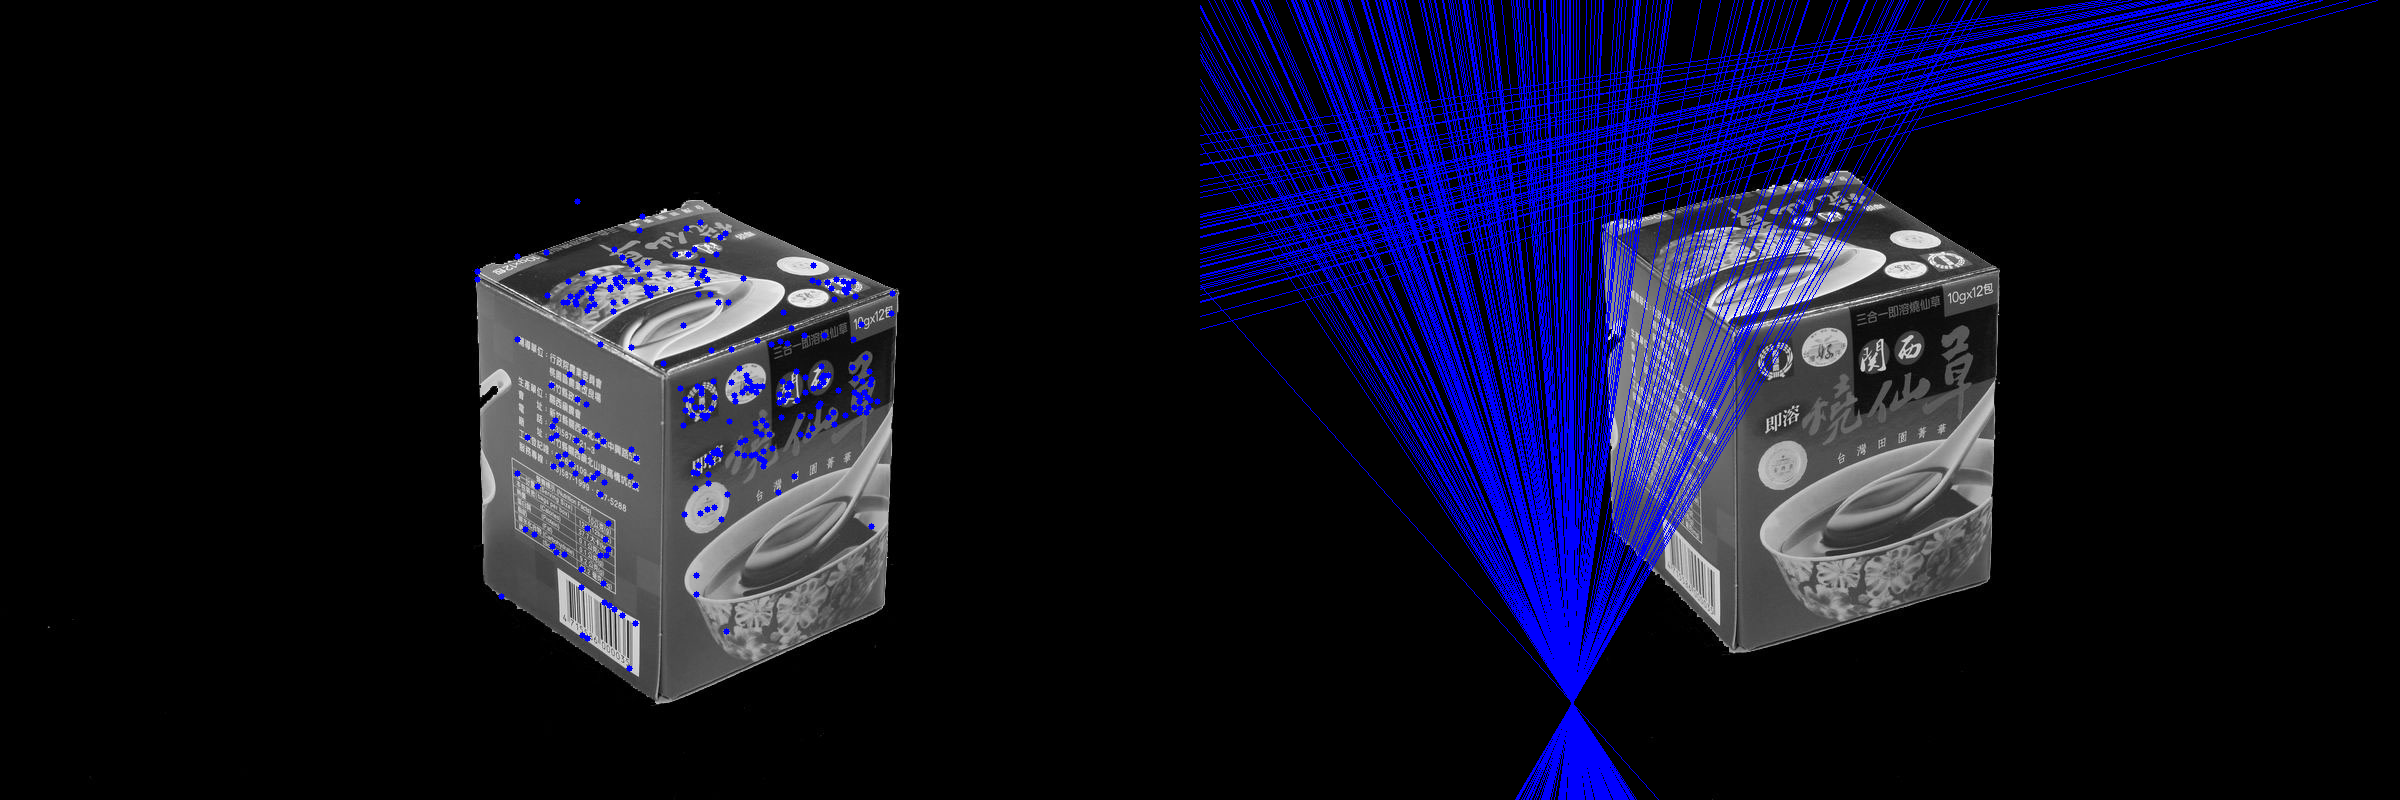
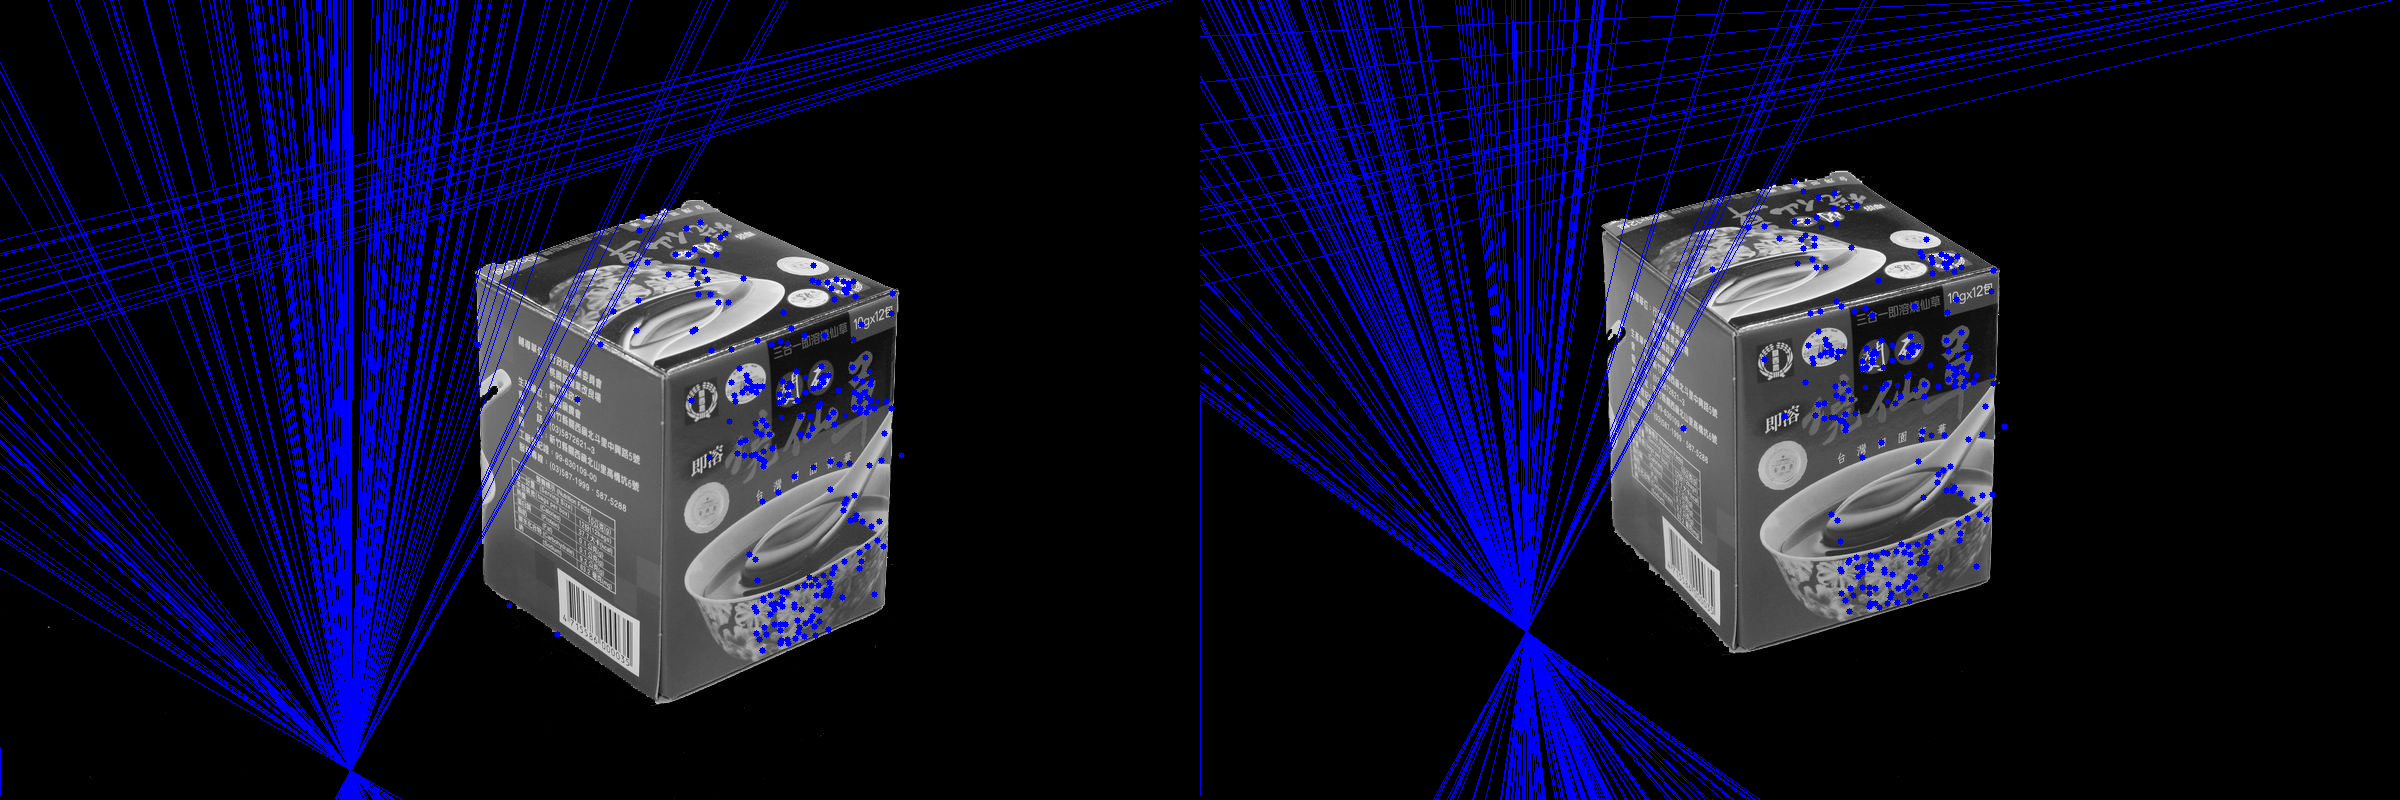
add opencv function call

diff --git a/structure-from-motion/task_1.py b/structure-from-motion/task_1.py
@@ -44,7 +44,7 @@ def find_matches(img1, img2):
             good.append(m)
             x.append(kp1[m.queryIdx].pt)
             xp.append(kp2[m.trainIdx].pt)
-
+    
     x = np.asarray(x)
     xp = np.asarray(xp)
     return x, xp
@@ -63,6 +63,7 @@ def normalize_2d_pts(pts):
     if pts.shape[0] != 3:
         raise ShapeError('Input point array must be 3xN')
 
+    # precondition
     finiteind = abs(pts[2]) > np.finfo(float).eps
     pts[0, finiteind] = pts[0, finiteind]/pts[2, finiteind]
     pts[1, finiteind] = pts[1, finiteind]/pts[2, finiteind]
@@ -80,9 +81,9 @@ def normalize_2d_pts(pts):
     scale = np.sqrt(2) / mean_dist
 
     '''
-        T = [scale   0   -scale*c(1)
-            0     scale -scale*c(2)
-            0       0      1      ];
+    T = [scale      0  -scale*c(1)
+             0  scale  -scale*c(2)
+             0      0            1]
     '''
     T = np.eye(3)
     T[0][0] = scale
@@ -118,7 +119,7 @@ def eight_point_algorithm(x1, x2):
     x2, T2 = normalize_2d_pts(x2)
 
     A = constraint_matrix(x1, x2)
-
+    
     # 1. Af=0 implies that the fundamental mat F can be extracted from singular vector of V
     # corresponding to the smallest singular value
     U, S, V = np.linalg.svd(A)
@@ -127,11 +128,11 @@ def eight_point_algorithm(x1, x2):
     # 2. Resolve det(F) = 0 constraint using SVD. Fundamental matrix should be rank 2
     U, D, V = np.linalg.svd(F)
     D[2] = 0
-    F = np.dot(U, np.dot(np.diag(D), V.T))
+    F = np.dot(np.dot(U, np.diag(D)), V.T)
 
-    # 3. denormalize F = T2.T * F_hat * T1
+    # 3. denormalize F = T2.T * F(normalized) * T1
     F = np.dot(np.dot(T2.T, F), T1)
-    return F
+    return F/F[2,2]
 
 def random_partition(n,n_data):
     """ return n random rows of data (and also the other len(data)-n rows)
@@ -330,45 +331,93 @@ h_x = h_x.T
 h_xp = h_xp.T
 
 # step 2: estimate fundamental matrix with RANSAC
-F, inliers = RANSAC(h_x, h_xp, n=8, iters=1000, thres=500, d=30)
+F, inliers = RANSAC(h_x, h_xp, n=8, iters=1000, thres=300, d=300)
 inliers_x = h_x[:, inliers]
 inliers_xp = h_xp[:, inliers]
+# F = eight_point_algorithm(inliers_x, inliers_xp)
+print(len(inliers)/h_x.shape[1])
 print(len(inliers))
+print(F)
 
 # step 3: draw the interest points and the corresponding epipolar lines
-h, w = img1.shape
 # F * xp is the epipolar line associated with x (l = F * xp)
 # l = prepare_epilines(F, inliers_xp, h, w)
 # F.T * x is the epipolar line associated with xp (lp = F.T * x)
 # lp = prepare_epilines(F.T, inliers_x, h, w)
 
 ###### try this
-# l = F.T xp
-l = prepare_epilines(F.T, inliers_xp, h, w)
-# l' = Fx
-lp = prepare_epilines(F, inliers_x, h, w)
-print(len(l), len(lp))
+# l = F.T * xp
 
+h, w = img1.shape
+lines_on_img1 = np.dot(F.T, inliers_xp).T
+print(lines_on_img1)
+# l' = F * x
+lines_on_img2 = np.dot(F, inliers_x).T
 
-# draw interest points and their corresponding epipolar lines
 img1_vis = cv2.cvtColor(img1, cv2.COLOR_GRAY2BGR)
 img2_vis = cv2.cvtColor(img2, cv2.COLOR_GRAY2BGR)
 
-# kp on img1, epi lines on img2
-kp_to_draw = []
-for i in range(inliers_x.shape[1]):
-    kp_to_draw.append((int(inliers_x[0, i]), int(inliers_x[1, i])))
-
-for i in range(len(kp_to_draw)):
-    img1_vis = cv2.circle(img1_vis, kp_to_draw[i], radius=3, color=(255,0,0), thickness=-1)
-
-for i in range(len(l)):
-    img2_vis = cv2.line(img2_vis, l[i][0], l[i][1], (255, 0, 0), 1)
+for r, pt_x, pt_xp in zip(lines_on_img1, inliers_x.T, inliers_xp.T):
+    color = tuple(np.random.randint(0, 255, 3).tolist())
+    x0, y0 = map(int, [0, -r[2]/r[1]])
+    x1, y1 = map(int, [w, -(r[2]+r[0]*w)/r[1]])
+    img1_vis = cv2.line(img1_vis, (y0,x0), (y1,x1), color, 1)
+    img1_vis = cv2.circle(img1_vis, tuple((int(pt_x[0]), int(pt_x[1]))), 3, color, -1)
+    img2_vis = cv2.circle(img2_vis, tuple((int(pt_xp[0]), int(pt_xp[1]))), 3, color, -1)
 
 vis = np.concatenate((img1_vis, img2_vis), axis=1)
+cv2.imshow('image', vis)
+cv2.waitKey(0)
+cv2.destroyAllWindows()
 
+img1_vis = cv2.cvtColor(img1, cv2.COLOR_GRAY2BGR)
+img2_vis = cv2.cvtColor(img2, cv2.COLOR_GRAY2BGR)
+
+for r, pt_x, pt_xp in zip(lines_on_img2, inliers_x.T, inliers_xp.T):
+    color = tuple(np.random.randint(0, 255, 3).tolist())
+    x0, y0 = map(int, [0, -r[2]/r[1]])
+    x1, y1 = map(int, [w, -(r[2]+r[0]*w)/r[1]])
+    img2_vis = cv2.line(img2_vis, (x0,y0), (x1,y1), color, 1)
+    img1_vis = cv2.circle(img1_vis, tuple((int(pt_x[0]), int(pt_x[1]))), 3, color, -1)
+    img2_vis = cv2.circle(img2_vis, tuple((int(pt_xp[0]), int(pt_xp[1]))), 3, color, -1)
+
+vis = np.concatenate((img1_vis, img2_vis), axis=1)
+cv2.imshow('image', vis)
+cv2.waitKey(0)
+cv2.destroyAllWindows()
+
+
+
+# l = prepare_epilines(F.T, inliers_xp, h, w)
+
+# l' = Fx
+# lp = prepare_epilines(F, inliers_x, h, w)
+# print(len(l), len(lp))
+
+
+# draw interest points and their corresponding epipolar lines
+# img1_vis = cv2.cvtColor(img1, cv2.COLOR_GRAY2BGR)
+# img2_vis = cv2.cvtColor(img2, cv2.COLOR_GRAY2BGR)
+# # kp on img1, epi lines on img2
+# kp_to_draw_x = []
+# kp_to_draw_xp = []
+
+# draw key points
+# for i in range(inliers_x.shape[1]):
+#     kp_to_draw_x.append((int(inliers_x[0, i]), int(inliers_x[1, i])))
+#     kp_to_draw_xp.append((int(inliers_xp[0,i]), int(inliers_xp[1,i])))
+
+# for i in range(len(kp_to_draw_x)):
+#     img1_vis = cv2.circle(img1_vis, kp_to_draw_x[i], radius=3, color=(255,0,0), thickness=-1)
+#     img2_vis = cv2.circle(img2_vis, kp_to_draw_xp[i], radius=3, color=(255,0,0),thickness=-1)
+
+# for i in range(len(l)):
+#      img1_vis = cv2.line(img1_vis, l[i][0], l[i][1], (255, 0, 0), 1)
+#      img2_vis = cv2.line(img2_vis, lp[i][0], lp[i][1], (255, 0, 0), 1)
+
+# vis = np.concatenate((img1_vis, img2_vis), axis=1)
 # cv2.imshow('image', vis)
-cv2.imwrite('./out_imgs/kp_and_epipolar.png', vis)
+# cv2.imwrite('./out_imgs/kp_and_epipolar.png', vis)
 # cv2.waitKey(0)
 # cv2.destroyAllWindows()
 
@@ -392,6 +441,7 @@ def drawlines(img1,img2,lines,pts1,pts2):
 
 # step 4: get 4 possible solutions of essential matrix from fundamental matrix
 # the given intrinsic parameters provided in hw3
+
 K = np.array([[1.4219, 0.0005, 0.5092],
               [0, 1.4219, 0.3802],
               [0, 0, 0.0010]], dtype=float)
@@ -405,7 +455,7 @@ all_3dpoints_1 = triangulation(P2_1, inliers_x, inliers_xp)
 all_3dpoints_2 = triangulation(P2_2, inliers_x, inliers_xp)
 all_3dpoints_3 = triangulation(P2_3, inliers_x, inliers_xp)
 all_3dpoints_4 = triangulation(P2_4, inliers_x, inliers_xp)
-print(all_3dpoints_1.shape)
+# print(all_3dpoints_1.shape)
 
 
 def plot3d(_3dpoints):

diff --git a/structure-from-motion/ans.py b/structure-from-motion/ans.py
@@ -1,0 +1,79 @@
+def drawlines(img1,img2,lines,pts1,pts2):
+    ''' img1 - image on which we draw the epilines for the points in img2
+        lines - corresponding epilines '''
+    r,c = img1.shape
+    img1 = cv2.cvtColor(img1,cv2.COLOR_GRAY2BGR)
+    img2 = cv2.cvtColor(img2,cv2.COLOR_GRAY2BGR)
+    for r,pt1,pt2 in zip(lines,pts1,pts2):
+        color = tuple(np.random.randint(0,255,3).tolist())
+        x0,y0 = map(int, [0, -r[2]/r[1] ])
+        x1,y1 = map(int, [c, -(r[2]+r[0]*c)/r[1] ])
+        img1 = cv2.line(img1, (x0,y0), (x1,y1), color,1)
+        img1 = cv2.circle(img1,tuple(pt1),5,color,-1)
+        img2 = cv2.circle(img2,tuple(pt2),5,color,-1)
+    return img1,img2
+
+
+import cv2
+import numpy as np
+from matplotlib import pyplot as plt
+
+img1 = cv2.imread('./homework3/Mesona1.JPG',0)  #queryimage # left image
+img2 = cv2.imread('./homework3/Mesona2.JPG',0) #trainimage # right image
+
+sift = cv2.xfeatures2d.SIFT_create()
+
+# find the keypoints and descriptors with SIFT
+kp1, des1 = sift.detectAndCompute(img1,None)
+kp2, des2 = sift.detectAndCompute(img2,None)
+
+# FLANN parameters
+FLANN_INDEX_KDTREE = 0
+index_params = dict(algorithm = FLANN_INDEX_KDTREE, trees = 5)
+search_params = dict(checks=50)
+
+flann = cv2.FlannBasedMatcher(index_params,search_params)
+matches = flann.knnMatch(des1,des2,k=2)
+
+good = []
+pts1 = []
+pts2 = []
+
+# ratio test as per Lowe's paper
+for i,(m,n) in enumerate(matches):
+    if m.distance < 0.7*n.distance:
+        good.append(m)
+        pts2.append(kp2[m.trainIdx].pt)
+        pts1.append(kp1[m.queryIdx].pt)
+
+
+pts1 = np.int32(pts1)
+pts2 = np.int32(pts2)
+F, mask = cv2.findFundamentalMat(pts1,pts2,cv2.RANSAC)
+print('Ans')
+print(F)
+
+# We select only inlier points
+pts1 = pts1[mask.ravel()==1]
+pts2 = pts2[mask.ravel()==1]
+
+
+# Find epilines corresponding to points in right image (second image) and
+# drawing its lines on left image
+lines1 = cv2.computeCorrespondEpilines(pts2.reshape(-1,1,2), 2,F)
+print(pts1)
+print(pts2)
+print(lines1)
+
+lines1 = lines1.reshape(-1,3)
+img5,img6 = drawlines(img1,img2,lines1,pts1,pts2)
+
+# Find epilines corresponding to points in left image (first image) and
+# drawing its lines on right image
+lines2 = cv2.computeCorrespondEpilines(pts1.reshape(-1,1,2), 1,F)
+lines2 = lines2.reshape(-1,3)
+img3,img4 = drawlines(img2,img1,lines2,pts2,pts1)
+
+plt.subplot(121),plt.imshow(img5)
+plt.subplot(122),plt.imshow(img3)
+plt.show()

diff --git a/structure-from-motion/task_2.py b/structure-from-motion/task_2.py
@@ -330,11 +330,11 @@ h_x = h_x.T
 h_xp = h_xp.T
 
 # step 2: estimate fundamental matrix with RANSAC
-F, inliers = RANSAC(h_x, h_xp, n=8, iters=1000, thres=500, d=30)
+F, inliers = RANSAC(h_x, h_xp, n=8, iters=1000, thres=600, d=300)
 inliers_x = h_x[:, inliers]
 inliers_xp = h_xp[:, inliers]
 print(len(inliers))
-
+print(F)
 # step 3: draw the interest points and the corresponding epipolar lines
 h, w = img1.shape
 # F * xp is the epipolar line associated with x (l = F * xp)
